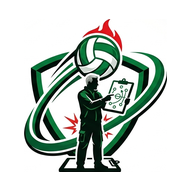
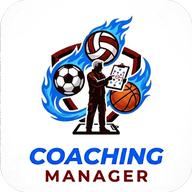
polisportiva app

diff --git a/index.html b/index.html
@@ -3,7 +3,7 @@
 <head>
     <meta charset="UTF-8">
     <meta name="viewport" content="width=device-width, initial-scale=1.0, viewport-fit=cover">
-    <title>VolleyTeam Manager — Coach Dashboard</title>
+    <title>Coaching Manager</title>
 
     <!-- PWA -->
     <link rel="manifest" href="manifest.json">
@@ -11,7 +11,7 @@
     <meta name="description" content="Gestionale completo per l'allenatore di pallavolo: roster, calendario, scout statistico, rotazioni, presenze e lavagnetta tattica.">
     <meta name="apple-mobile-web-app-capable" content="yes">
     <meta name="apple-mobile-web-app-status-bar-style" content="black-translucent">
-    <meta name="apple-mobile-web-app-title" content="VolleyTeam">
+    <meta name="apple-mobile-web-app-title" content="Coaching Manager">
     <link rel="apple-touch-icon" href="icons/apple-touch-icon.png">
     <link rel="icon" type="image/png" sizes="32x32" href="icons/favicon-32.png">
     <link rel="icon" type="image/png" sizes="16x16" href="icons/favicon-16.png">
@@ -312,7 +312,7 @@
     <div class="brand-top">
         <img class="brand-logo" src="icons/logo-badge.png" alt="VolleyTeam Manager">
         <div style="text-align:center">
-            <div class="brand-name" id="brand-name">VOLLEY<span id="team-span">TEAM</span></div>
+            <div class="brand-name" id="brand-name"><span id="team-span">TEAM</span></div>
             <div class="brand-sub">Manager</div>
         </div>
         <div class="team-edit">
@@ -358,5 +358,6 @@
 </div>
 
 <script src="app.js"></script>
+<script src="polisport.js"></script>
 </body>
 </html>

diff --git a/sw.js b/sw.js
@@ -1,6 +1,6 @@
 /* VolleyTeam Manager - Service Worker
    Bump CACHE_VERSION ad ogni rilascio per forzare l'aggiornamento. */
-const CACHE_VERSION = 'volleyteam-v1';
+const CACHE_VERSION = 'volleyteam-v4';
 const APP_SHELL = [
   './',
   './index.html',
@@ -42,6 +42,13 @@ self.addEventListener('fetch', (event) => {
   const sameOrigin = url.origin === self.location.origin;
 
   if (sameOrigin) {
+    // Navigazioni -> sempre l'app shell, così l'app si apre anche se l'URL non e' la root pulita (es. /index)
+    if (req.mode === 'navigate') {
+      event.respondWith(
+        caches.match('./index.html').then((c) => c || fetch(req).catch(() => caches.match('./index.html')))
+      );
+      return;
+    }
     event.respondWith(
       caches.match(req).then((cached) =>
         cached ||
